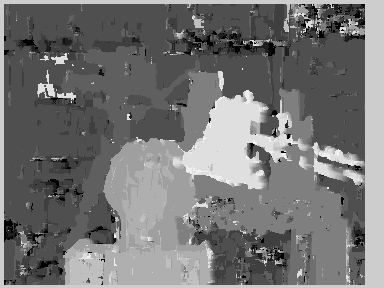
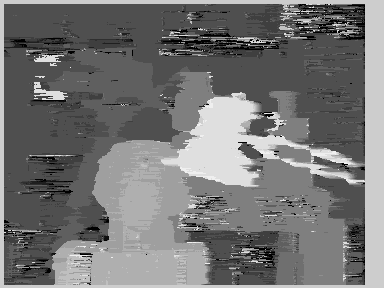
introducing SIMD

diff --git a/disparityMap/matching/matching.h b/disparityMap/matching/matching.h
@@ -67,6 +67,18 @@ struct NCCtype :public IEstimationType {
 	}
 };
 
+class SIMDintrinsicSSDtype :public IEstimationType {
+public:
+	inline long long int getValue(IplImage* leftImage, IplImage* rightImage, int x, int y, int windowSize, int d) {
+
+		__m128i* leftImagePtr = (__m128i*)(leftImage->imageData + y*leftImage->widthStep + x);
+		__m128i* rightImagePtr = (__m128i*)(rightImage->imageData + y*rightImage->widthStep + (x + d));
+
+		__m128i xmmImage = _mm_sad_epu8(_mm_loadu_si128((leftImagePtr)), _mm_loadu_si128((rightImagePtr)));
+		return _mm_extract_epi16(xmmImage, 0) + _mm_extract_epi16(xmmImage, 4);
+	}
+};
+
 class DisparityMapMaker {
 public:
 	DisparityMapMaker(const std::string leftImagePath, const std::string rightImagePath, const int& windowSize, const int& dRange, IEstimationType* type);
@@ -74,7 +86,7 @@ public:
 	IplImage* getDisparitMapPtr();
 
 private:
-	const std::shared_ptr<IEstimationType> pEstimationType;
+	const std::unique_ptr<IEstimationType> pEstimationType;
 	IplImage* leftImage;
 	IplImage* rightImage;
 	IplImage* disparityMap;

diff --git a/disparityMap/matching/main.cpp b/disparityMap/matching/main.cpp
@@ -12,7 +12,7 @@ void showImageAndStop(IplImage* image) {
 int main() {
 	const std::string leftImagePath = "tsukuba_l.png";
 	const std::string rightImagePath = "tsukuba_r.png";
-	DisparityMapMaker maker(leftImagePath, rightImagePath, 3, 16, new SSDtype());
+	DisparityMapMaker maker(leftImagePath, rightImagePath, 3, 16, new SIMDintrinsicSSDtype());
 
 	TimePrinter time;
 	IplImage* disparityMap(maker.getDisparitMapPtr());
